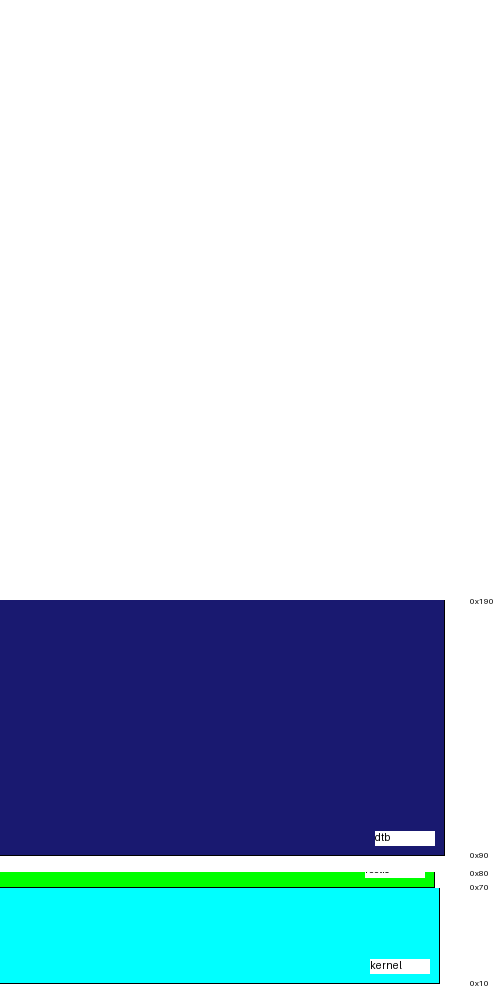
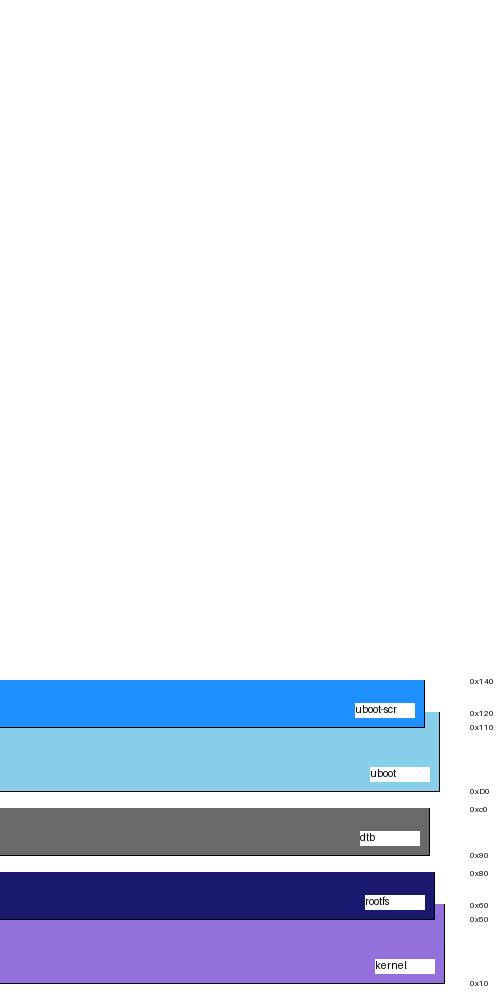
updated doc example

diff --git a/tests/test_docs.py b/tests/test_docs.py
@@ -4,20 +4,46 @@ import mmdiagram.generator
 
 
 def test_generate_doc_example():
-    ''' should create custom report dir/files '''
+    """  """
     with unittest.mock.patch('sys.argv',
                              ['mmap_digram.diagram',
                               'kernel',
                               '0x10',
-                              '0x60',
+                              '0x50',
                               'rootfs',
-                              '0x70',
-                              '0x10',
+                              '0x50',
+                              '0x30',
                               'dtb',
                               '0x90',
-                              '0x100',
+                              '0x30',
+                              'uboot',
+                              '0xD0',
+                              '0x50',
+                              'uboot-scr',
+                              '0x110',
+                              '0x30',
                               "-o",
-                              "doc/example/report.md"]):
-        mmdiagram.generator.Diagram()
-        assert pathlib.Path("doc/example/report.md").exists()
-        assert pathlib.Path("doc/example/report.png").exists()
+                              "doc/example/report.md"],
+                             mmdiagram.generator.height, 1000):
+        d = mmdiagram.generator.Diagram()
+        for region in d._region_list:
+            if region.name == "kernel":
+                assert region._origin == "0x10"
+                assert region._size == "0x50"
+                assert region.remain == "-0x10"
+            if region.name == "rootfs":
+                assert region._origin == "0x50"
+                assert region._size == "0x30"
+                assert region.remain == "0x10"
+            if region.name == "dtb":
+                assert region._origin == "0x90"
+                assert region._size == "0x30"
+                assert region.remain == "0x10"
+            if region.name == "uboot":
+                assert region._origin == "0xD0"
+                assert region._size == "0x50"
+                assert region.remain == "-0x10"
+            if region.name == "uboot-scr":
+                assert region._origin == "0x110"
+                assert region._size == "0x30"
+                assert region.remain == "0x2a8"

diff --git a/doc/example/report.md b/doc/example/report.md
@@ -1,6 +1,8 @@
 ![memory map diagram](report.png)
 |name|origin|size|remaining|collisions
 |:-|:-|:-|:-|:-|
-|<span style='color:midnightblue'>dtb</span>|0x90|0x100|0x258|{}|
-|<span style='color:aqua'>kernel</span>|0x10|0x60|0x0|{}|
-|<span style='color:lime'>rootfs</span>|0x70|0x10|0x10|{'kernel': '0x70'}|
+|<span style='color:mediumpurple'>kernel</span>|0x10|0x50|-0x10|{'rootfs': '0x50'}|
+|<span style='color:skyblue'>uboot</span>|0xD0|0x50|-0x10|{'uboot-scr': '0x110'}|
+|<span style='color:midnightblue'>rootfs</span>|0x50|0x30|0x10|{'kernel': '0x50'}|
+|<span style='color:dimgray'>dtb</span>|0x90|0x30|0x10|{}|
+|<span style='color:dodgerblue'>uboot-scr</span>|0x110|0x30|0x2a8|{'uboot': '0x110'}|
